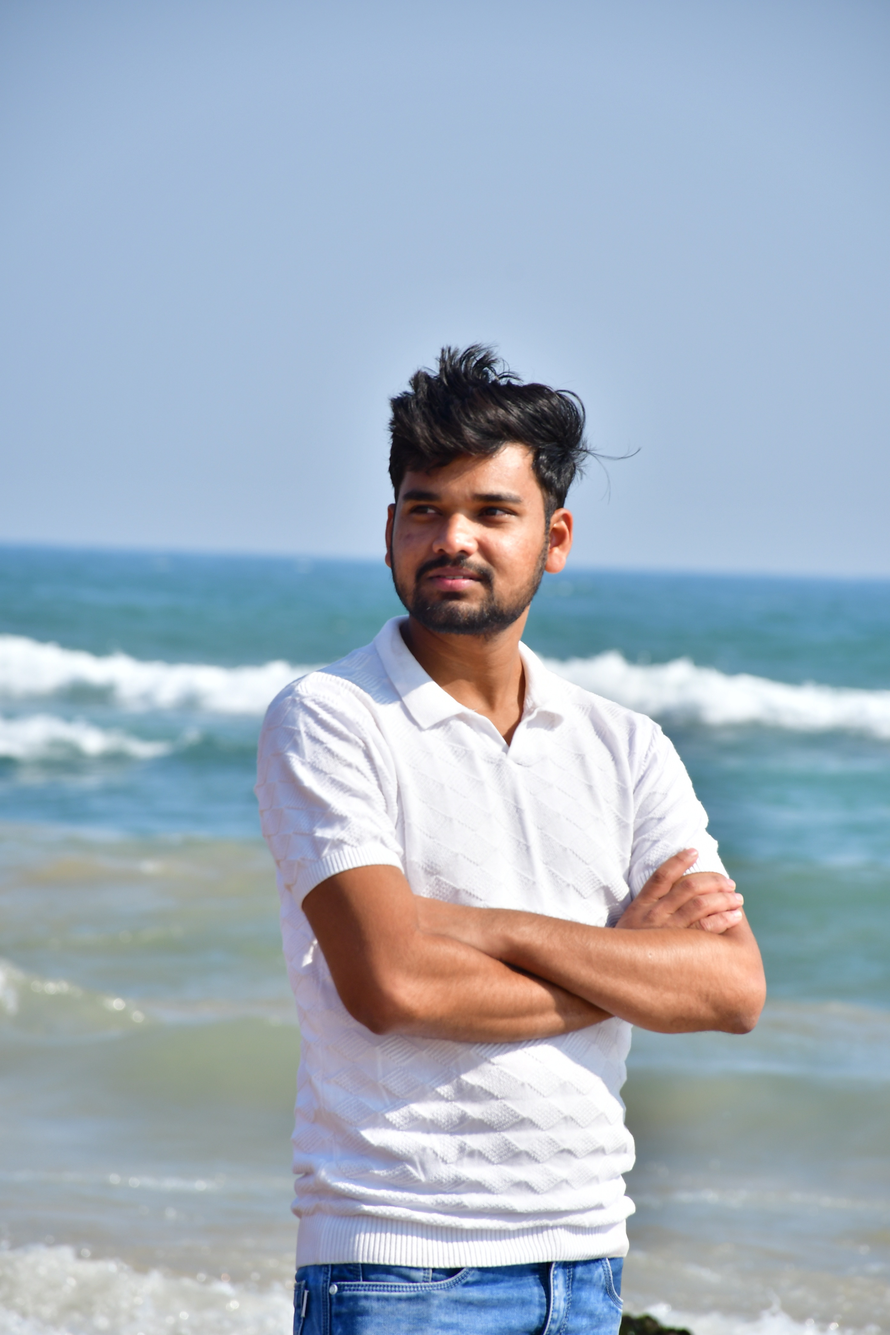
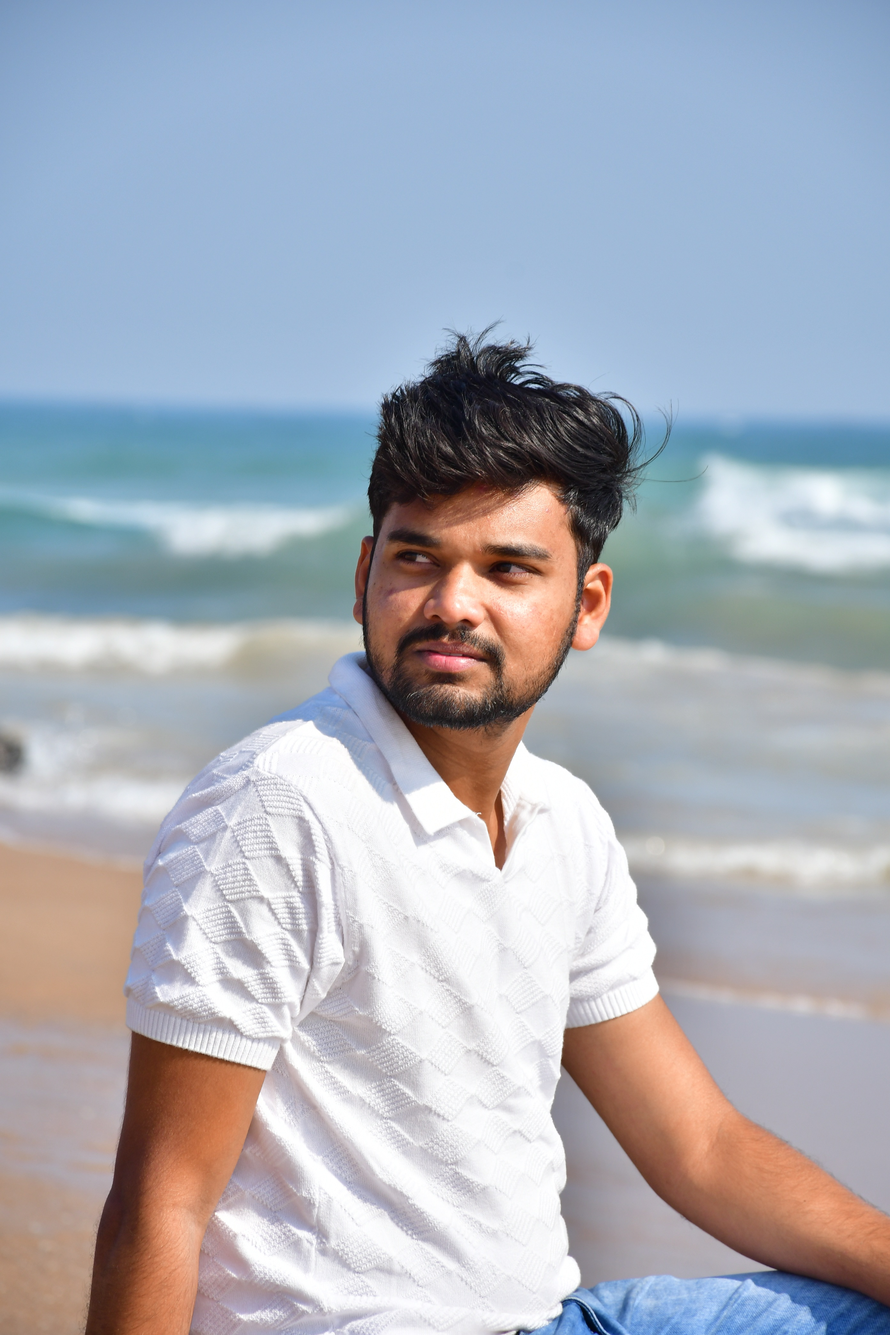
cms

diff --git a/src/index.css b/src/index.css
@@ -150,7 +150,7 @@ body {
 }
 
 .intro {
-  background: url('./assets/images/author4.jpg');
+  background: url('./assets/images/author.jpg');
   background-position: center;
   background-size: cover;
   /* padding-block: 1rem; */
